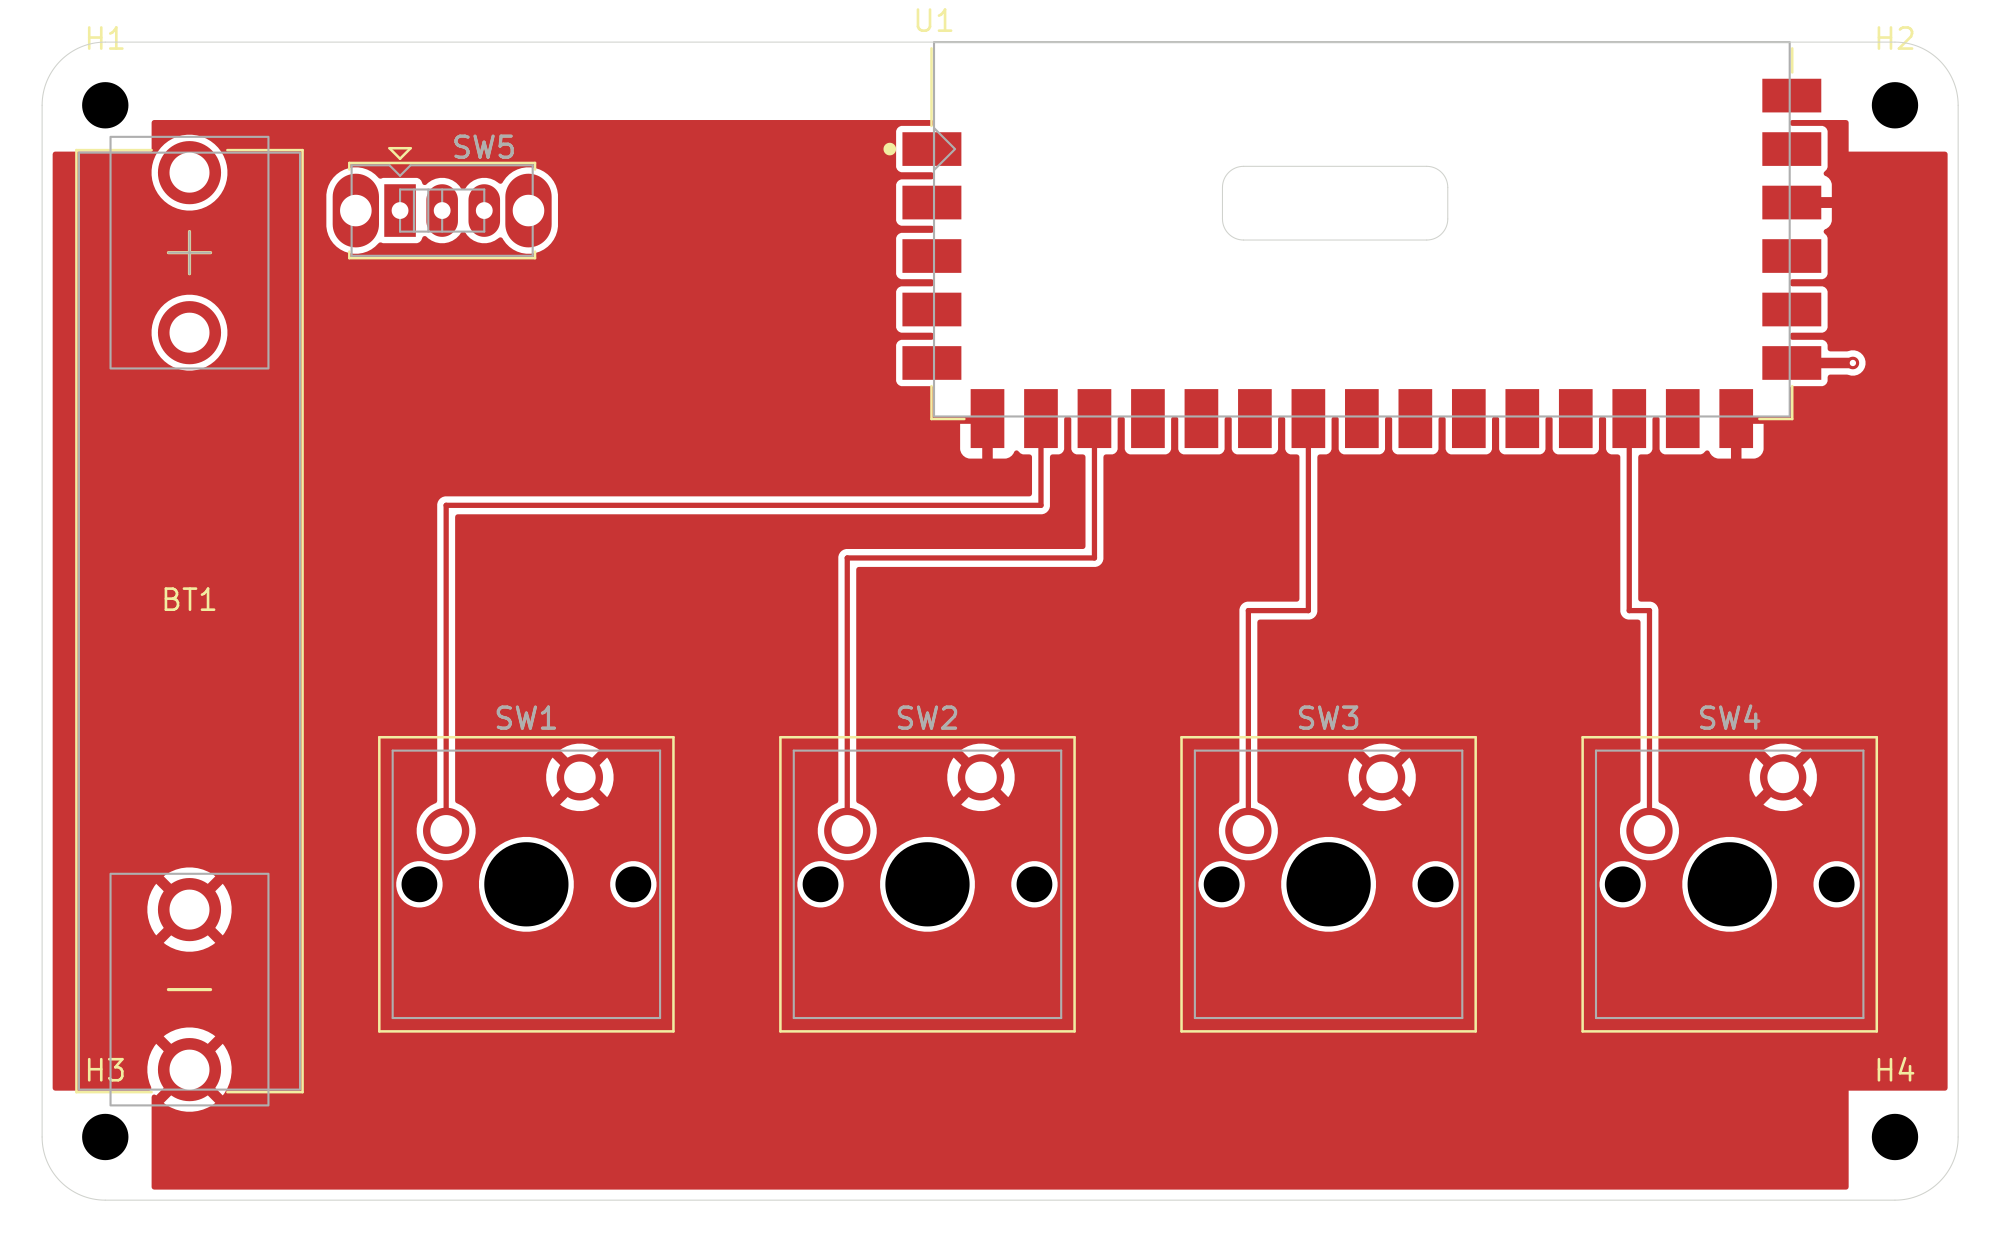
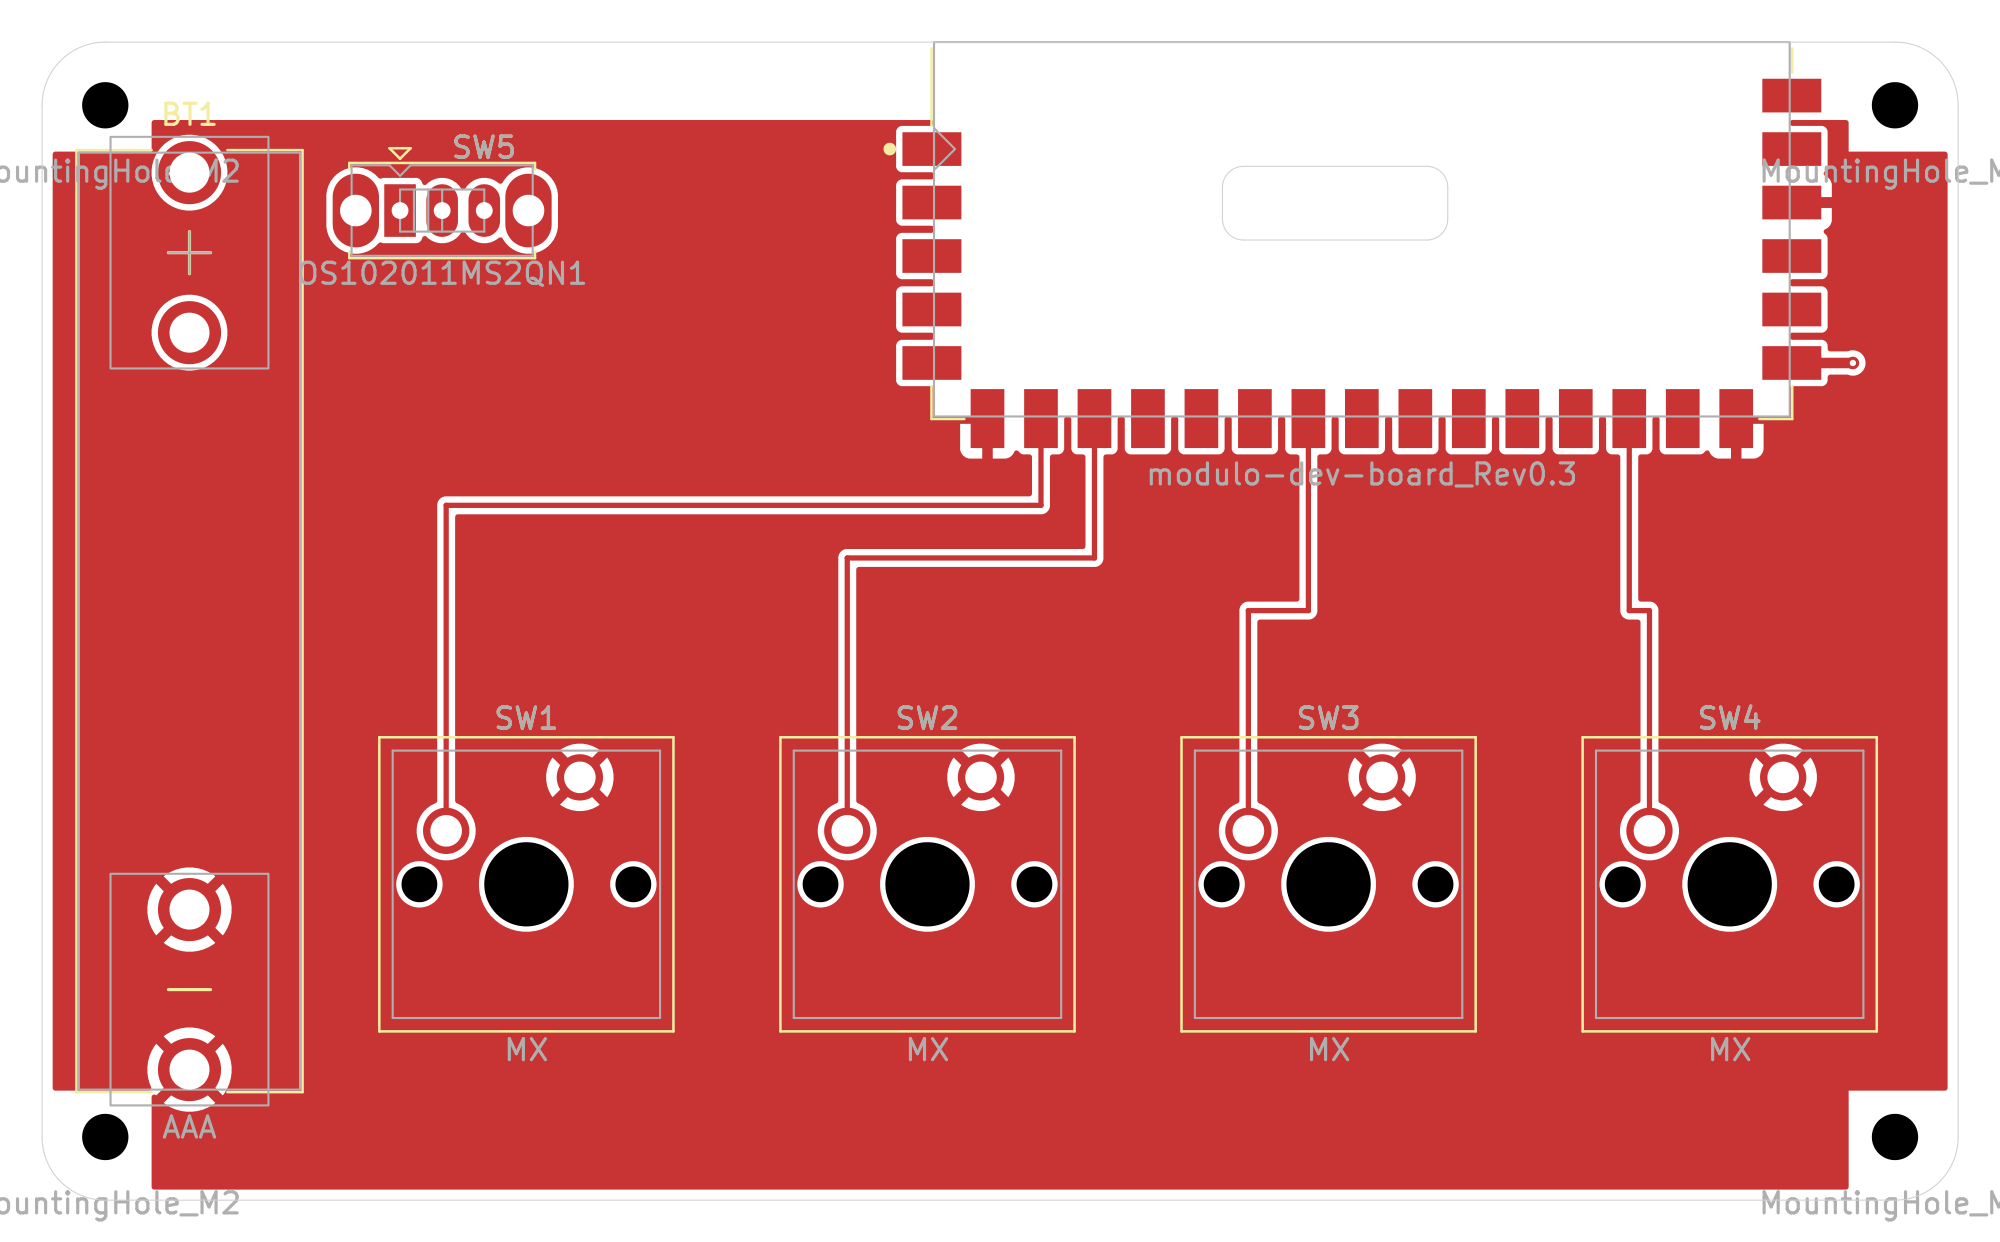
仕様書を DRC の警告解消に合わせて更新

diff --git a/docs/spec.md b/docs/spec.md
@@ -111,7 +111,7 @@
 | BT1 | 単4形電池（Keystone 82 × 2） | −側を GND、＋側を SW5 へ |
 | SW5 | スライドスイッチ（SPDT） | 共通端子を電池の＋側、片側を BAT+。もう片側は未接続 |
 | SW1〜SW4 | Cherry MX 互換スイッチ | 片側を GPIO、もう片側を GND |
-| H1〜H4 | 固定穴 Ø2.2 mm（メッキなし） | 電気的な接続なし |
+| H1〜H4 | 固定穴 Ø2.2 mm（メッキなし） | 電気的な接続なし。BOM と位置ファイルから外す |
 
 - リセットスイッチと LED（WS2812B）は開発基板に載っているものを上から使うので、meishi 3 には追加しない。
 - 回路図は `modulo-meishi-3/modulo-meishi-3.kicad_sch`（1 枚）。PDF を [modulo-meishi-3-schematic.pdf](modulo-meishi-3-schematic.pdf) に置いた。
@@ -313,9 +313,8 @@ DRC（2026-11-07）:
 
 - エラー 0、未配線 0、回路図との不一致 0。
 - 電池クリップ（BT1）と、左上・左下の固定穴（H1・H3）のコートヤードの重なり 2 件は、KiCad で除外した。データシートから推定したクリップの背板（幅 7.5 mm、電池の端から外へ約 0.75 mm）が、ネジの頭の範囲（Ø4.4 mm）に約 0.7 mm 入る。電池本体は当たらない。発注前に実物で確かめる（9 節）。
-- 警告が 9 件残る。シルクの PR で直す。
-  - 置いたフットプリントの属性（through_hole／smd、BOM と位置ファイルから外す設定）などがライブラリと違う（7 件）。Konnect で回路図から取り込んだときに落ちた。KiCad の「フットプリントをライブラリから更新」で、製造属性もリセットして直す。
-  - H1・H2 の参照番号のシルクが基板の外にはみ出す（2 件）。
+- 警告も 0。Konnect で回路図から取り込んだときに落ちたフットプリントの属性（through_hole／smd、BOM と位置ファイルから外す設定）は、KiCad の「フットプリントをライブラリから更新」で製造属性もリセットして戻した。
+- 固定穴 H1〜H4 は、回路図でも BOM と位置ファイルから外した。H1〜H4 と U1 の参照番号はシルクに出さない（H1・H2 は基板の外にはみ出し、U1 は開発基板の下に隠れるため）。
 
 ---
 
@@ -384,7 +383,7 @@ DRC（2026-11-07）:
 | 2 | `feature/library` | 開発基板のシンボルとフットプリント（切り欠きを含む。禁止領域は輪郭だけ）、電池クリップ 2 個 1 組のフットプリント、ライブラリの登録、1:1 の印刷用シート | 1:1 で印刷して実物と合わせる |
 | 3 | `feature/schematic` | 回路図と GPIO の割り当て表 | ERC のエラー 0 |
 | 4 | `feature/pcb-layout` | 外形と設計ルール、配置、配線と GND ベタ（禁止領域はベタの形と配線の経路で守る） | DRC のエラー 0、回路図との不一致 0 |
-| 5 | `feature/silkscreen` | 表面と裏面のシルク（署名を含む）。フットプリントの属性の修正と、H1・H2 の参照番号の整理（5.10 節） | 画像で確認、DRC の警告 0 |
+| 5 | `feature/silkscreen` | 表面と裏面のシルク（署名を含む） | 画像で確認 |
 | 6 | `feature/fab-output` | 製造データの出力スクリプト（DRC が通らなければ止める）、ガーバーとドリル、組み立て手順 | 出力の確認 |
 
 **1:1 の印刷用シート**
